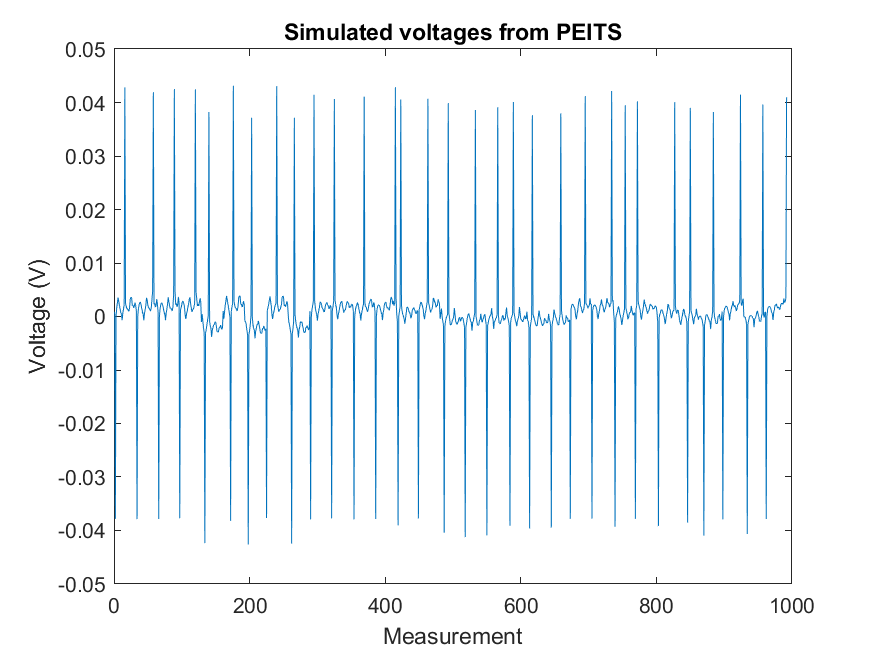
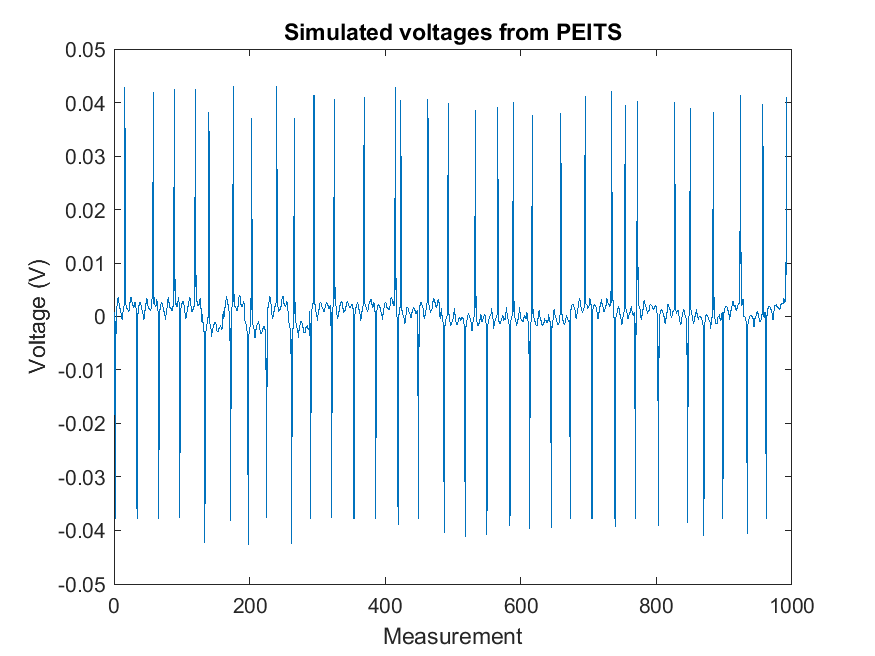
Working EIDORS example

diff --git a/examples/EIDORS/eidors_example.m b/examples/EIDORS/eidors_example.m
@@ -40,6 +40,8 @@ runmesher('../neonatescalp/NNscalp.inr','../neonatescalp/NNscalp_elecINRpos.txt'
 % running computationally expensive output
 
 Mesh=loadmesh('output/NNEIDORS');
+% Mesh=loadmesh('../PEITS/output/NNPEITSmesh');
+
 figure
 hold on;
 trep = triangulation(Mesh.Tetra, Mesh.Nodes);
@@ -58,11 +60,7 @@ title('Neonate Mesh Low Res')
 
 %% Load into EIDORS
 
-inv_mdl= mk_common_model('n3r2',[16,2]);
-show_fem(inv_mdl.fwd_model)
- 
-valid_fwd_model(inv_mdl.fwd_model)
-%% 
+%remember to run eidors startup
 
 %based on mk_fmdl_from_nodes
 MDL=eidors_obj('fwd_model','test');
@@ -79,11 +77,11 @@ gnd_dist=sqrt(sum((Mesh.Nodes - Mesh.gnd_pos).^2,2));
 [~, gnd_node] = min(gnd_dist);
 MDL.gnd_node = gnd_node;
 
-% Electrodes 
+% Electrodes
 
-% find nodes on the suface within electrode radius 
-z_contact = 200;
-elec_radius = .006; %in meters
+% find nodes on the suface within electrode radius
+z_contact = 100;
+elec_radius = .008; %in meters
 
 srf_idx=unique(srf(:));
 srf_nodes=Mesh.Nodes(srf_idx,:);
@@ -92,13 +90,30 @@ for iElec = 1:size(Mesh.elec_pos,1)
     electrodes(iElec).z_contact= z_contact;
     edist = sqrt(sum((srf_nodes - Mesh.elec_pos(iElec,:)).^2,2));
     enodes = srf_idx(edist <= elec_radius);
-    electrodes(iElec).nodes = enodes';
+    
+    curNodes=enodes';
+    curNodes = unique(curNodes);
+    
+    % only use nodes which can be used in triangulation as this confuses
+    % find_electrode_bdy.m, as it thinks any unused node is a point electrode.
+    % This is adapted from find_electrode_bdy
+    
+    % count how many times each node is used in the surface
+    bdy_els = zeros(size(srf,1),1);
+    for nd= curNodes(:)'
+        bdy_els = bdy_els + any(srf==nd,2);
+    end
+    % Nodes used three times are part of a triangulation
+    ffb = find(bdy_els == size(srf,2));
+    % only use nodes which appear 3 times 
+    curNodes=intersect(curNodes,unique(srf(ffb,:)));
+    electrodes(iElec).nodes = curNodes;
 end
 
 MDL.electrode =     electrodes;
-MDL.solve=          'eidors_default';
-MDL.jacobian=       'eidors_default';
-MDL.system_mat=     'eidors_default';
+MDL.solve=          @fwd_solve_1st_order;
+MDL.jacobian=       @jacobian_adjoint;
+MDL.system_mat=     @system_mat_1st_order;
 MDL.normalize_measurements = 0;
 
 figure
@@ -107,17 +122,46 @@ title('Mesher output in EIDORS');
 saveas(gcf,'figures/EIDORS_FEM.png');
 %% Forward model settings
 
-% Convert text file to EIDORS stim patterns
+% Convert protocol file to EIDORS stim patterns
 
-[stim, meas_sel] = mk_stim_patterns( 32,1,'{op}','{op}');
+Amp=240e-6;
+
+prt=dlmread('NN2016_Prt_full.txt');
+[stim]= stim_meas_list( prt,33,Amp);
+% [stim_op, meas_sel] = mk_stim_patterns( 33,1,'{op}','{op}',{},Amp);
 
 MDL.stimulation=stim;
 
-%%
-
+%% Check FWD is ok
 valid_fwd_model(MDL)
 
+%% Add conductivity and solve
 
+cond_scalp=0.2;
+cond_skull=0.03;
 
+% create conductivity vector
+cond= zeros( size(MDL.elems,1) ,1);
 
+cond(Mesh.mat_ref == 1) = cond_scalp;
+cond(Mesh.mat_ref == 2) = cond_skull;
 
+img = mk_image(MDL,cond);
+
+% solve fwd for this conductivity 
+data=fwd_solve( img);
+
+figure
+plot(data.meas)
+title('Simulated voltaged from EIDORS')
+xlabel('Measurement');
+ylabel('Voltage (V)');
+ylim([-0.05 0.05])
+saveas(gcf,'figures/EIDORS_Volts.png')
+
+%%
+figure
+hold on
+plot(V)
+plot(data.meas*0.25)
+ylim([-0.05 0.05])

diff --git a/MATLAB/loadmesh.m b/MATLAB/loadmesh.m
@@ -1,6 +1,11 @@
 function [Mesh] = loadmesh(fname)
 %READMESH reads mesh from tetra and vert csv files into Mesh structure
-%   Detailed explanation goes here
+%   Assumes files all in same directory, with same basename fname:
+%   fname.parameters (meshing parameters and ground node position)
+%   fname.electrode (Electrode locations in mesh coordinates)
+%   fname.dgf (not read)
+%   fname_tetra.csv
+%   fname_verticies.csv (save_nodes_tetra =1 must be set in Mesher Parameter file) 
 
 disp(['Loading mesh : ' fname]);
 
@@ -9,7 +14,7 @@ electrode_positions=csvread([fname '.electrodes']);
 verticies=csvread([fname '_vertices.csv']);
 tetra=csvread([fname '_tetra.csv']);
 
-%read parameter file
+% read parameter file
 pfid=fopen([fname '.parameters']);
 
 t=textscan(pfid,'%s','Delimiter','\n');
@@ -20,10 +25,10 @@ fclose(pfid);
 t=t{1};
 t=cellstr(t);
 
-%remove comments
+% remove comments
 t=t(~startsWith(t,'#'));
 
-%find ground node position
+% find ground node position
 x_idx=contains(t,'groundposition.x:');
 y_idx=contains(t,'groundposition.y:');
 z_idx=contains(t,'groundposition.z:');

diff --git a/examples/EIDORS/readme.md b/examples/EIDORS/readme.md
@@ -2,7 +2,7 @@
 
 [EIDORS](http://eidors3d.sourceforge.net/) is the most common EIT software suite, which offers some meshing capabilities through Netgen and Distmesh. EIDORS is based on MATLAB/Octave and a full example is given in `eidors_example.m`.
 
-### Loading mesh
+## Loading mesh
 
 First call MESHER to create a low resolution neonatal head mesh. If you are using >1 mln elements then [PEITS](https://github.com/EIT-team/PEITS) probably better suited.
 
@@ -12,13 +12,17 @@ First call MESHER to create a low resolution neonatal head mesh. If you are usin
 
 EIDORS contains a number of useful utilities to create a valid EIDORS FEM object, and this code is based on `mk_fmdl_from_nodes.m`. EIDORS requires:
 
-- Nodes and Verticies
+- Nodes and Vertices
 - Surface faces
 - Ground node
 - Electrode nodes
 
-Once these have been definied we can use the EIDORS function `show_fem(MDL)` to plot the mesh
+Once these have been defined we can use the EIDORS function `show_fem(MDL)` to plot the mesh
 
 ![Mesh in EIDORS](figures/EIDORS_FEM.png)
 
-### Running forward solution
+## Running forward solution
+
+The procotol can be converted to an EIDORS stim pattern through `stim_meas_list` and the forward model setup through `img = mk_image(MDL,cond);`. Finally the voltages can be calcuated using `fwd_solve`.
+
+![Voltages in EIDORS](figures/EIDORS_Volts.png)
